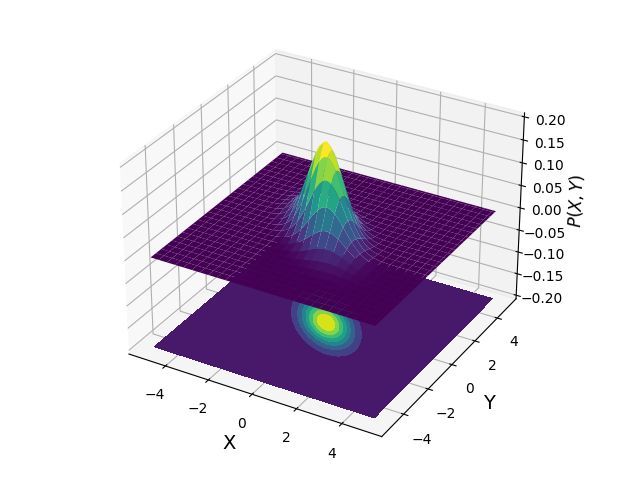
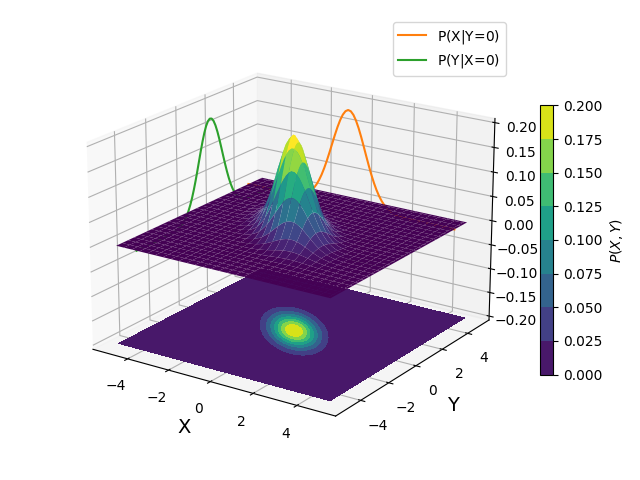
Developed code to plot joint and marginal distributions in a single 3D axis.

diff --git a/GPR/Gaussians.py b/GPR/Gaussians.py
@@ -10,6 +10,7 @@
 ########## Relevant Imports ##########
 import numpy as np
 import matplotlib.pyplot as plt
+import seaborn as sns
 from matplotlib import cm
 from mpl_toolkits.mplot3d import Axes3D
 
@@ -57,17 +58,23 @@ pos[:,:,1] = Y
 
 # Compute MVN for X and Y given mu and Sigma
 Z = multivariate_gaussian(pos,mu=mu,Sigma=sigma)
+# Compute marginal distributions for X and Y
+zxy = Z[Z.shape[0]//2,:]
+zyx = Z[:,Z.shape[0]//2]
 
 fig = plt.figure()
 ax1 = fig.add_subplot(projection='3d')
 ax1.plot_surface(X, Y, Z, rstride=3, cstride=3, linewidth=1, antialiased=True, cmap=cm.viridis)
 cset = ax1.contourf(X, Y, Z, zdir='z', offset=-0.2, cmap=cm.viridis)
+cbar = plt.colorbar(
+    cset, ax=ax1, fraction=0.025, pad=0.05)
+pxy = ax1.plot(x,4*np.ones(len(x)),zxy,label=r"P(X$|$Y=0)")
+pyx = ax1.plot(-4*np.ones(len(x)),y,zxy,label=r"P(Y$|$X=0)")
 ax1.set_xlabel("X",fontsize=14)
 ax1.set_ylabel("Y",fontsize=14)
-ax1.set_zlabel(r"$P(X,Y)$",fontsize=12,)
+cbar.ax.set_ylabel('$P(X,Y)$', fontsize=10)
 ax1.set_zlim(-0.2,0.2)
+ax1.legend()
+ax1.view_init(elev=20,azim=-56,roll=0)
 plt.tight_layout()
 plt.savefig("GPR/Figures/BVN.png")
-plt.show()
-
-
